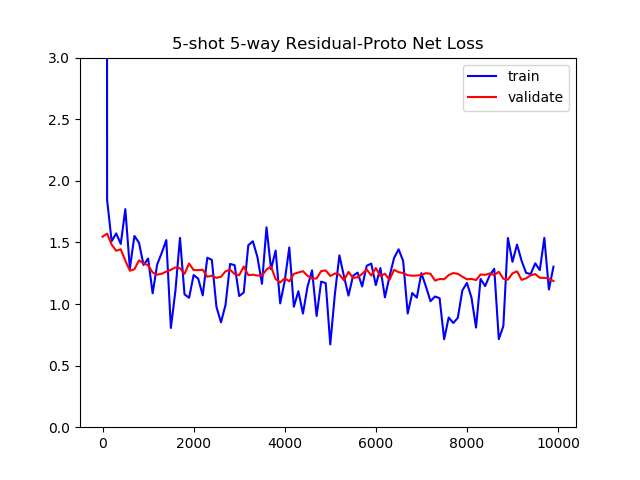
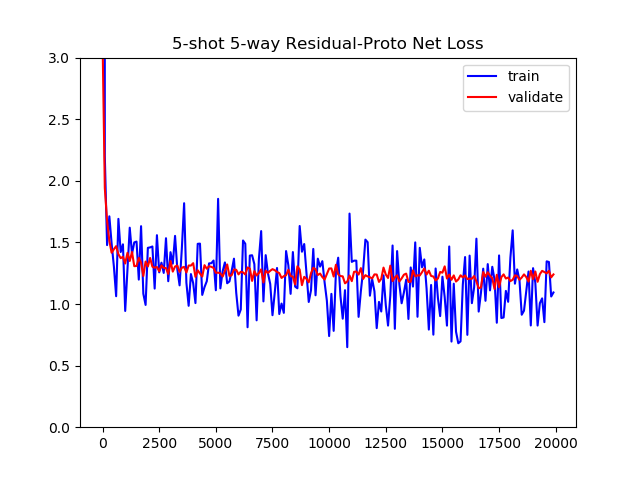
0906 commit

diff --git a/modules/runnable/dlExp11.py b/modules/runnable/dlExp11.py
@@ -220,8 +220,12 @@ for episode in range(MAX_ITER):
 train_x = [i for i in range(0,len(train_acc_his),TEST_CYCLE)]
 test_x = [i for i in range(0,len(train_acc_his), TEST_CYCLE)]
 
+# 修改为计算TEST_CYCLE轮内的正确率和损失值的平均值
+train_acc_plot = np.array(train_acc_his).reshape(-1,TEST_CYCLE).mean(axis=1).reshape(-1).tolist()
+train_loss_plot = np.array(train_loss_his).reshape(-1,TEST_CYCLE).mean(axis=1).reshape(-1).tolist()
+
 plt.title('%d-shot %d-way Residual-%s Net Accuracy'%(k,n,metric))
-plt.plot(train_x, [train_acc_his[i] for i in range(0,len(train_acc_his),TEST_CYCLE)], linestyle='-', color='blue', label='train')
+plt.plot(train_x, train_acc_plot , linestyle='-', color='blue', label='train')
 plt.plot(test_x, test_acc_his, linestyle='-', color='red', label='validate')
 plt.plot(train_x, [1/k]*len(train_x), linestyle='--', color="black", label="baseline")
 plt.legend()
@@ -230,7 +234,7 @@ plt.show()
 
 plt.title('%d-shot %d-way Residual-%s Net Loss'%(k,n,metric))
 plt.ylim(0,3)
-plt.plot(train_x, [train_loss_his[i] for i in range(0,len(train_acc_his),TEST_CYCLE)], linestyle='-', color='blue', label='train')
+plt.plot(train_x, train_loss_plot, linestyle='-', color='blue', label='train')
 plt.plot(test_x, test_loss_his, linestyle='-', color='red', label='validate')
 plt.legend()
 plt.savefig(DOC_SAVE_PATH + '%d_loss.png'%version)

diff --git a/modules/runnable/dlExp12.py b/modules/runnable/dlExp12.py
@@ -23,7 +23,7 @@ from modules.model.datasets import FewShotRNDataset, get_RN_modified_sampler, ge
 VALIDATE_PATH = "D:/peimages/New/Residual_5shot_5way_exp/test/"
 # MODEL_LOAD_PATH = "D:/peimages/New/ProtoNet_5shot_5way_exp/"+"Residual_last_epoch_model_5shot_5way_v9.0.h5"
 # MODEL_LOAD_PATH = "D:/peimages/New/ProtoNet_5shot_5way_exp/"+"Residual_5000_epoch_model_5shot_5way_v17.0.h5"
-MODEL_LOAD_PATH = "D:/peimages/New/Residual_5shot_5way_exp/models/"+"Residual_best_acc_model_5shot_5way_v23.0.h5"
+MODEL_LOAD_PATH = "D:/peimages/New/Residual_5shot_5way_exp/models/"+"Residual_best_acc_model_5shot_5way_v21.0.h5"
 
 input_size = 256
 

diff --git a/modules/runnable/test.py b/modules/runnable/test.py
@@ -12,7 +12,6 @@ from sklearn.preprocessing import label_binarize
 import random as rd
 from modules.model.RelationNet import EmbeddingNet
 import inspect
-from modules.utils.gpu_mem_track import MemTracker
 from sklearn.neighbors import KNeighborsClassifier as KNN
 import torch.nn.functional as F
 import time
@@ -69,9 +68,8 @@ import re
 # dat2_length = t.sqrt((dat2**2).sum(dim=1))
 # dot = t.mul(dat,dat2).sum(dim=1)
 
-a = [1,3,4,5,8]
-
-
+a = [1,3,4,5,6,8]
+a = np.array(a).reshape(-1,3).mean(axis=1).reshape(-1).tolist()
 
 
 

diff --git a/doc/dl_ResidualNet_5shot_5way_exp/config.md b/doc/dl_ResidualNet_5shot_5way_exp/config.md
@@ -159,3 +159,7 @@ n个类，而不是之前的单纯抽取前n个类
 同时原型向量之间分离的不是很充分。因此考虑：1.在损失函数中增加类间
 原型的距离。2.在损失函数中加入类内查询集样本距离。可以参照LDA的训练
 模式，最大化类间散度，最小化类内散度
+
+- 9.7
+考虑仿照Spatial Transformer论文中的结构，使用注意力机制实现的
+变换来代替固定的池化
